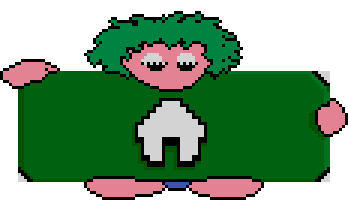
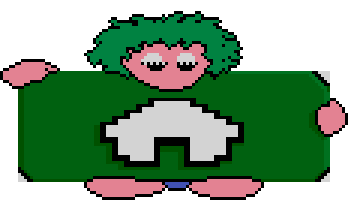
changed ingame pop-up to be more stylized

Changed region(s): [[0.2874, 0.48, 0.7184, 0.84]]

diff --git a/src/lemmings/Lemmings_game.hpp b/src/lemmings/Lemmings_game.hpp
@@ -64,80 +64,81 @@ private:
       }
     }
   }
-  
-  void delete_exit(Engine &engine){
+
+  void delete_exit(Engine &engine)
+  {
 
     auto entities = engine.get_entities();
-    for (auto &entity : entities){
-      if(entity->get_class() == "POP"){
+    for (auto &entity : entities)
+    {
+      if (entity->get_class() == "POP")
+      {
         entity->destroy();
       }
     }
   }
 
-  void pop_up_menu_in_game(Engine &engine){
-    auto background = std::make_shared<Entity>(Point3f(10170, 50, 3), Vector2f(300, 300), engine.load_texture("assets/menu/background_brown.png"), engine, "Background", "Background");
+  void pop_up_menu_in_game(Engine &engine)
+  {
+    auto background = std::make_shared<Entity>(Point3f(10000, 0, 3), Vector2f(640, 400), engine.load_texture("assets/menu/ingame_popup.png"), engine, "Background", "Background");
     background->set_class("POP");
 
     engine.get_game().create_entity(background);
 
-    auto text = std::make_shared<Text_displayer>(Point3f(10320, 70, 2), Vector2f(12, 22.5), game_info, "center",
-                                                  engine.load_texture("assets/font/font-red.png"),
-                                                  Vector2i(16, 30), lemmings_font_map, "MENU", engine,
-                                                  "POP");
-    engine.get_game().create_entity(text);
-
     auto x_b = 10320 - 100;
+    auto y_b = 220;
 
-    auto b_sonido = std::make_shared<Entity>(Point3f(x_b, 91, 2), Vector2f(200, 80), engine.load_texture("assets/menu/menu_wide_volume.png"), engine, "Background", "Background");
+    auto b_sonido = std::make_shared<Entity>(Point3f(x_b, y_b, 2), Vector2f(200, 80), engine.load_texture("assets/menu/menu_wide_volume.png"), engine, "Background", "Background");
     b_sonido->set_class("POP");
     engine.get_game().create_entity(b_sonido);
 
-    auto s_musica = std::make_shared<Menu_slider>(Point3f(x_b + 90, 130, 1), 86, Vector2f(12, 12), 0, engine, game_info);
+    auto s_musica = std::make_shared<Menu_slider>(Point3f(x_b + 90, y_b + 39, 1), 86, Vector2f(12, 12), 0, engine, game_info);
     s_musica->set_class("POP");
     engine.get_game().create_entity(s_musica);
-    auto s_efectos = std::make_shared<Menu_slider>(Point3f(x_b + 90, 146, 1), 86, Vector2f(12, 12), 1, engine, game_info);
+    auto s_efectos = std::make_shared<Menu_slider>(Point3f(x_b + 90, y_b + 55, 1), 86, Vector2f(12, 12), 1, engine, game_info);
     s_efectos->set_class("POP");
     engine.get_game().create_entity(s_efectos);
-    text = std::make_shared<Text_displayer>(Point3f(x_b + 85, 136, 0), Vector2f(5, 10), game_info, "right",
-                                            engine.load_texture("assets/font/font-cyan.png"),
-                                            Vector2i(16, 30), lemmings_font_map, "Music", engine,
-                                            "POP");
+    auto text = std::make_shared<Text_displayer>(Point3f(x_b + 85, y_b + 45, 0), Vector2f(5, 10), game_info, "right",
+                                                 engine.load_texture("assets/font/font-cyan.png"),
+                                                 Vector2i(16, 30), lemmings_font_map, "Music", engine,
+                                                 "POP");
     engine.get_game().create_entity(text);
-    text = std::make_shared<Text_displayer>(Point3f(x_b + 85, 152, 0), Vector2f(5, 10), game_info, "right",
+    text = std::make_shared<Text_displayer>(Point3f(x_b + 85, y_b + 61, 0), Vector2f(5, 10), game_info, "right",
                                             engine.load_texture("assets/font/font-cyan.png"),
                                             Vector2i(16, 30), lemmings_font_map, "Effects", engine,
                                             "POP");
     engine.get_game().create_entity(text);
 
     // Botón volver a menú
-    auto b_home = std::make_shared<Menu_button>(Point3f(10300, 180, 2), Vector2f(60, 60), engine, game_info, keyboard, Utils::BUTTON_TYPE::GO_HOME);
+    auto b_home = std::make_shared<Menu_button>(Point3f(10220, 120, 2), Vector2f(80, 80), engine, game_info, keyboard, Utils::BUTTON_TYPE::GO_HOME);
     b_home->set_class("POP");
     engine.get_game().create_entity(b_home);
 
     // Botón de salir juego
-    auto b_exit = std::make_shared<Menu_button>(Point3f(10300, 250, 2), Vector2f(60, 60), engine, game_info, keyboard, Utils::BUTTON_TYPE::YES_EXIT);
+    auto b_exit = std::make_shared<Menu_button>(Point3f(10340, 120, 2), Vector2f(80, 80), engine, game_info, keyboard, Utils::BUTTON_TYPE::YES_EXIT);
     b_exit->set_class("POP");
     engine.get_game().create_entity(b_exit);
 
     // Botón de vuelta al menu
-    auto b_back = std::make_shared<Menu_button>(Point3f(10175, 65, 2), Vector2f(35, 18.5), engine, game_info, keyboard, Utils::BUTTON_TYPE::NO_EXIT_GAME);
+    auto b_back = std::make_shared<Menu_button>(Point3f(10175, 326, 2), Vector2f(35, 18.5), engine, game_info, keyboard, Utils::BUTTON_TYPE::NO_EXIT_GAME);
     b_back->set_class("POP");
     engine.get_game().create_entity(b_back);
   }
 
-
-  void create_pop_up_exit(Engine &engine){
-    if (game_info.get_pop_exit()){
-      //crear pop
+  void create_pop_up_exit(Engine &engine)
+  {
+    if (game_info.get_pop_exit())
+    {
+      // crear pop
       game_info.set_level_is_paused(true);
       engine.set_is_game_paused(true);
       pop_up_menu_in_game(engine);
       std::cout << "Creando pop exit\n";
       game_info.pop_exit_creado();
     }
-    if (game_info.get_delete_exit()){
-      //eliminar pop
+    if (game_info.get_delete_exit())
+    {
+      // eliminar pop
       delete_exit(engine);
       std::cout << "Eliminando pop exit\n";
       game_info.pop_exit_eliminado();
